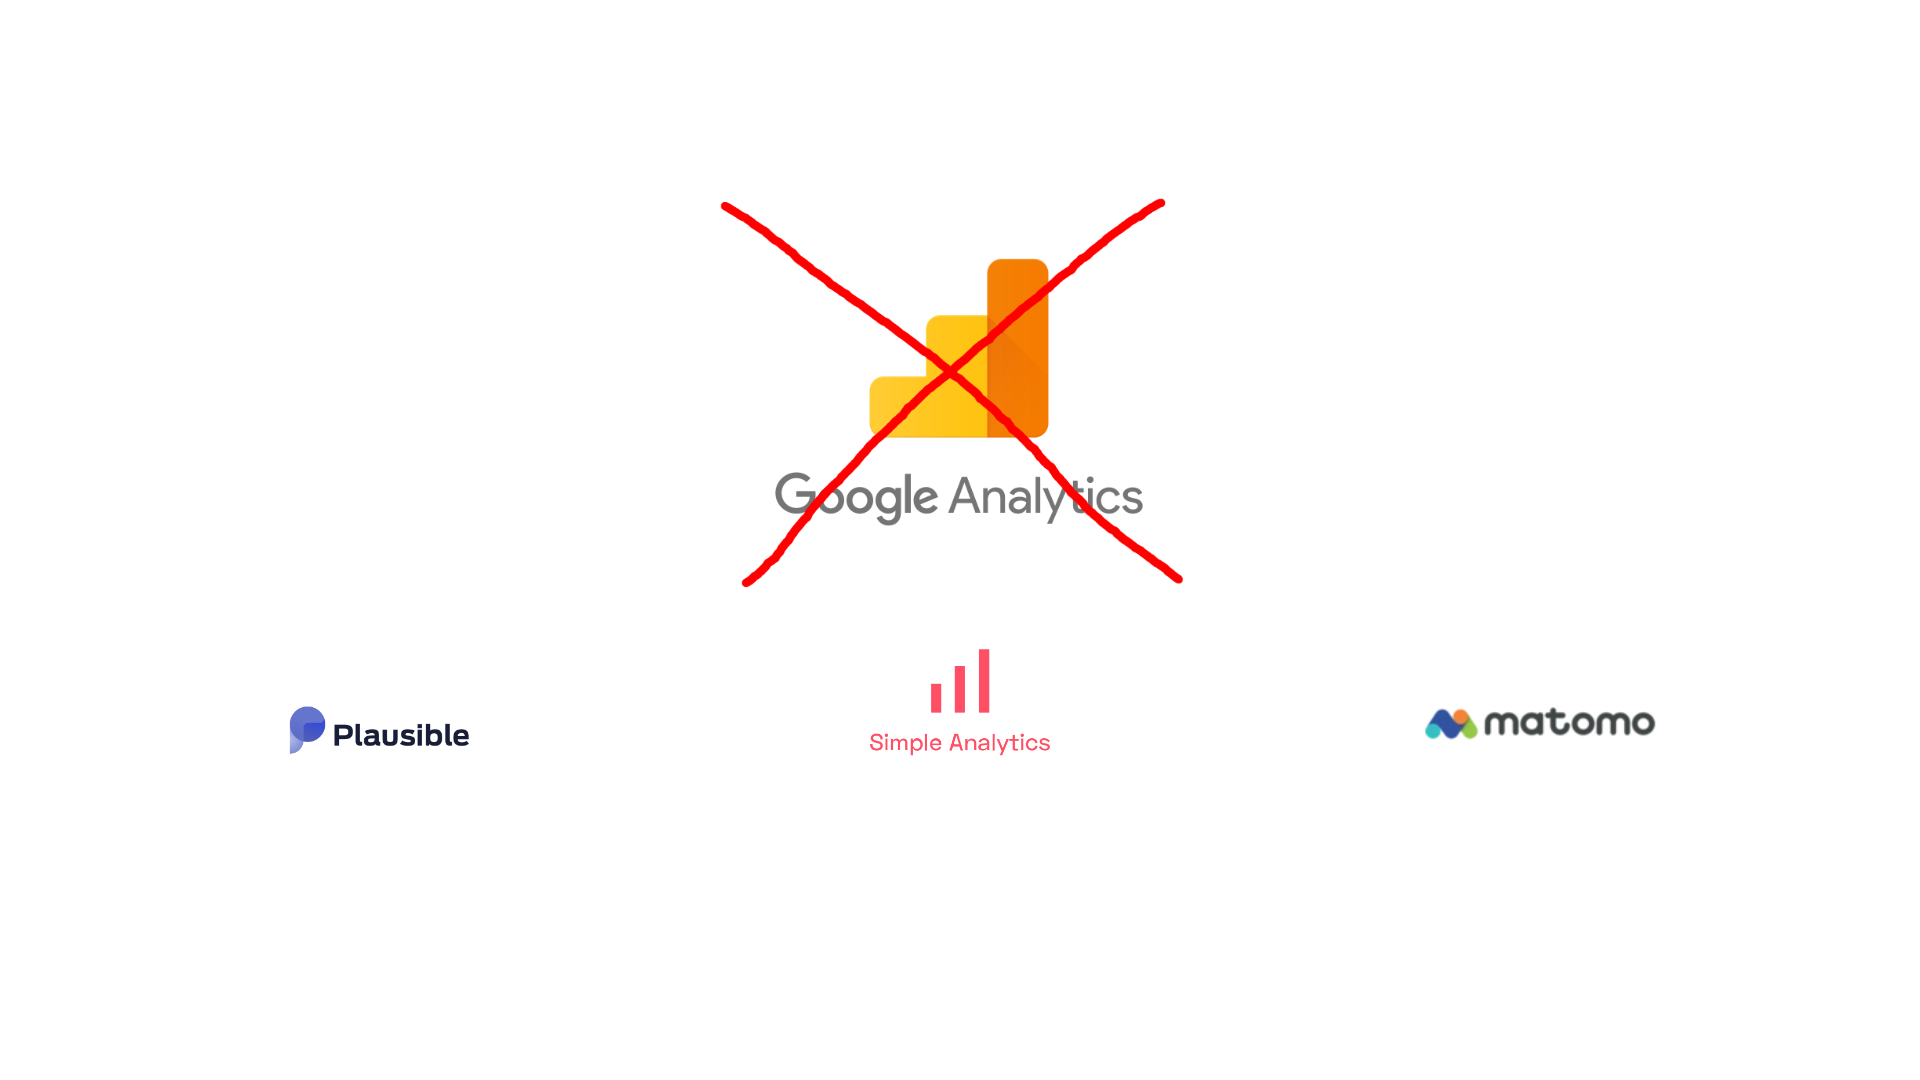
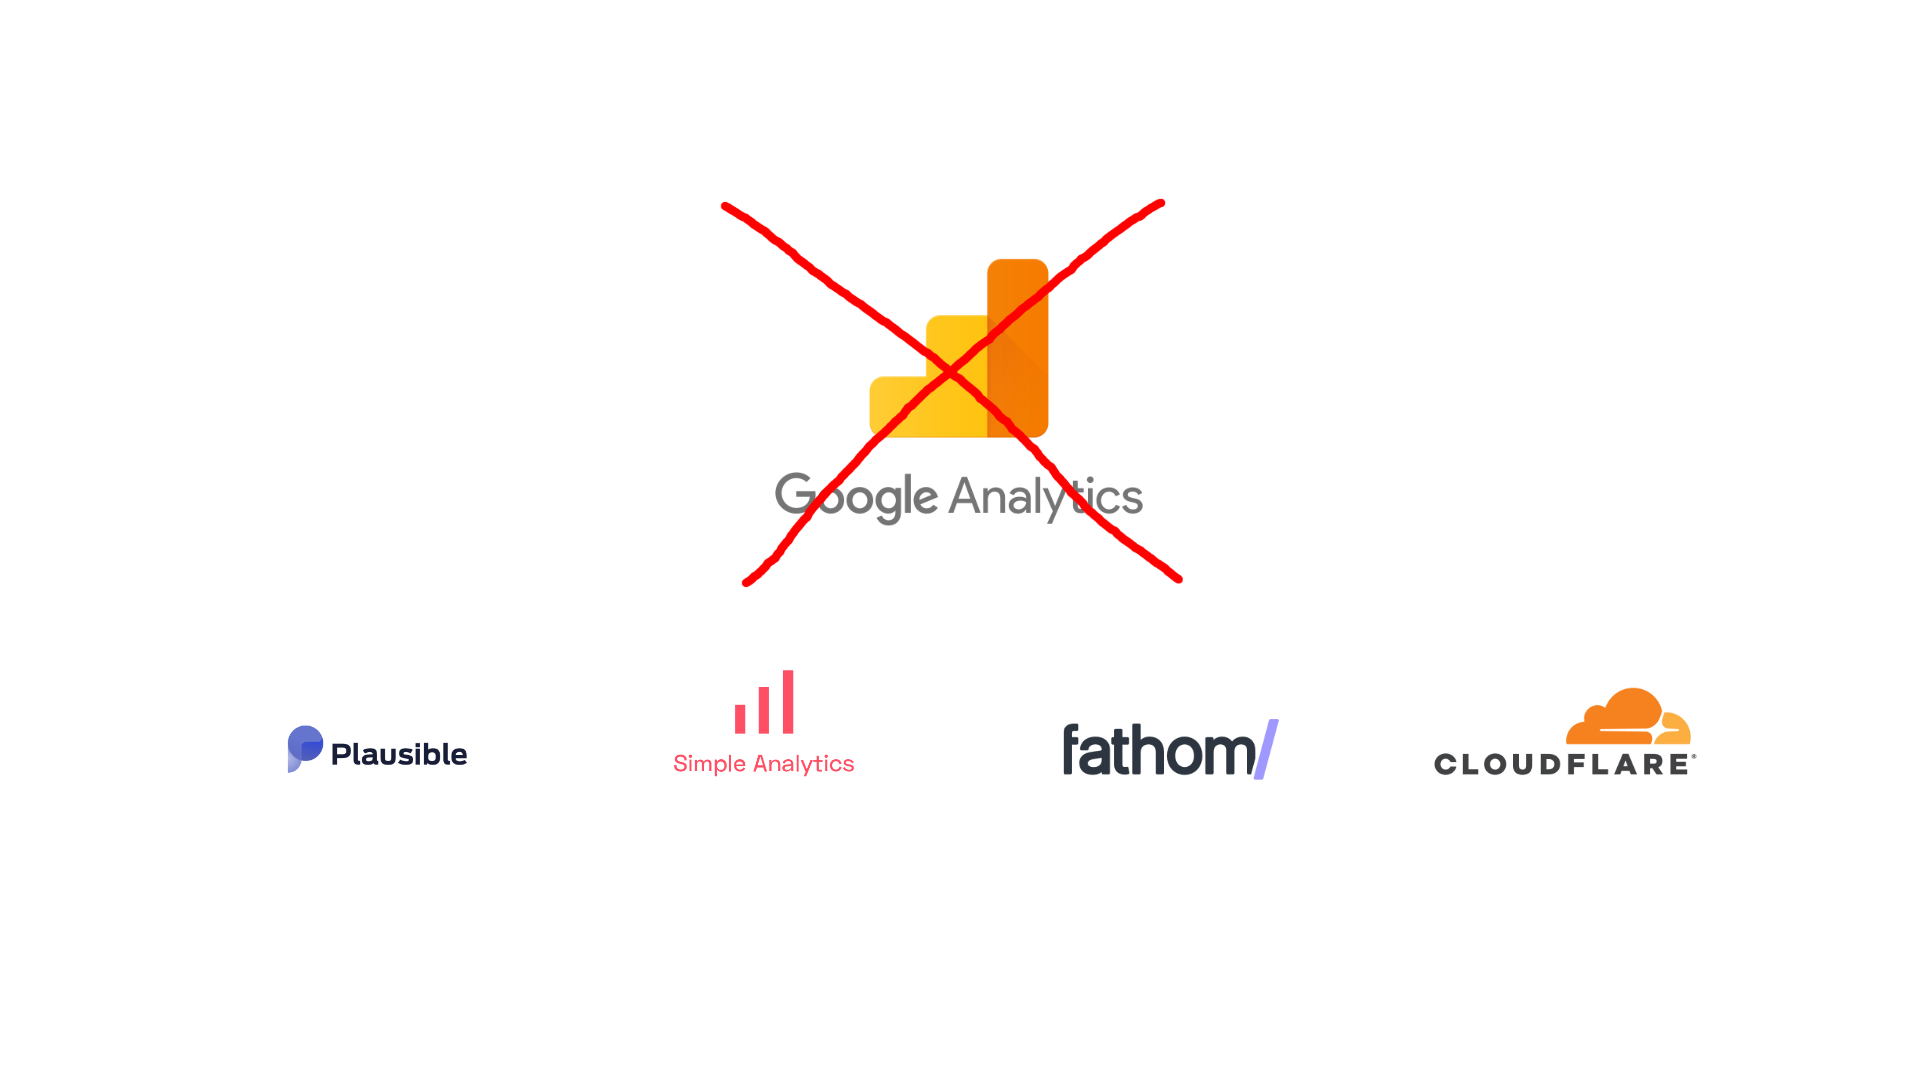
Fix blog post

diff --git a/gatsby-node.js b/gatsby-node.js
@@ -59,6 +59,7 @@ exports.createPages = async ({ actions, graphql }) => {
 	const posts = result.data.allMarkdownRemark.edges;
 
 	posts.forEach( ({ node }) => {
+		console.log(node);
 		if(!node.fields.slug) return;
 
 		createPage({
@@ -121,48 +122,6 @@ exports.createSchemaCustomization = ({ actions }) => {
 		}
 	`;
 };
-/*
-const localesContent = {
-	en: fs.readFileSync(path.join(__dirname, "src/locales/en/index.json"), "utf8"),
-	sv: fs.readFileSync(path.join(__dirname, "src/locales/sv/index.json"), "utf8")
-};
-const availableLocales = [
-	{ value: "en", text: "English" },
-	{ value: "sv", text: "Svenska" }
-];
-const defaultLocales = { value: "sv", text: "Svenska" }; */
-
-/* exports.onCreatePage = async props => {
-	const{
-		page,
-		actions: { createPage, deletePage, createRedirect }
-	} = props;
-
-	if(/^\/dev-404-page\/?$/.test(page.path))
-		return;
-
-	deletePage(page);
-
-	availableLocales.map(({ value }) => {
-		let newPath = `/${value}${page.path}`;
-		if(defaultLocales.value === value)
-			newPath = page.path;
-
-		const localePage = {
-			...page,
-			originalPath: page.path,
-			path: newPath,
-			context: {
-				availableLocales,
-				locale: value,
-				routed: true,
-				data: localesContent[value],
-				originalPath: page.path
-			}
-		};
-		createPage(localePage);
-	});
-}; */
 
 function createSlug({ node }){
 	const filePath = node.fileAbsolutePath;

diff --git a/content/drafts/du-behover-antagligen-inte-google-analytics.md b/content/drafts/du-behover-antagligen-inte-google-analytics.md
@@ -1,0 +1,88 @@
+---
+type: post
+published: true
+title: Du behöver antagligen inte Google Analytics
+date: 2021-01-12T15:18:13.078Z
+updated: 2021-01-12T15:18:14.842Z
+image: /google-analytics-cover.jpg
+description: Google Analytics har länge varit en slags standardtjänst för att
+  föra statistik på webbplatser. Det är dock ofta mer än vad många behöver och
+  försämrar användarupplevelsen. Jag berättar varför och ger dig några
+  alternativ.
+---
+
+## Problemet
+
+Är du inne på mycket webbplatser? Har du märkt hur alla frågar efter att använda Cookies? Har detta irriterat dig? Det irriterar mig iallafall.
+
+Genom att använda Google Analytics (GA) måste man även fråga användarna om tillåtelse att använda Cookies. Anledningen är att GA använder spårningskakor för hålla reda på användare över olika webbplatser. Detta låter GA presentera mer korrekt och specialiserad information om användarna.
+
+Detta tillåter många företag att få djupa insikter om sina användare och kan därmed utforma sin webbplats efter användarnas faktiska användning. Jättebra!
+
+MEN! Detta är helt onödigt för de flesta webbplatser. De flesta får inte ens tillräckligt många besökare för att dessa insikter ska ha någon betydelse. Allt man egentligen vill veta är hur många som besöker webbplatsen, och det behöver man inte GA för.
+
+Google använder även datan från din webbplats för egna syften. Det betyder att det inte är du som äger informationen och vet inte vem som kan se den eller vad de gör med den.
+
+GA är gratis att använda eftersom de tjänar pengar på dig och dina besökare.
+
+## En del av problemet
+
+Jag var faktiskt, fram till förra månaden, en del av problemet. Jag använde GA för att föra statistik, men brydde mig bara om antalet besökare och hur det ändrades över tid. Jag insåg dock detta och i samband med en renovering av min webbplats bytte jag ut GA mot ett integritets-inriktat statistik-verktyg.
+
+## Andra alternativ
+
+Vad ska man använda istället för Google Analytics? Eftersom hela poängen med att inte använda GA är att bli av med den irriterande cookie-bannern kommer jag att lista och jämföra några olika integritets-inriktade verktyg för att samla statistik från din webbplats.
+
+### Plausible Analytics
+
+![Plausible Dashboard](/plausible.jpg "Plausible Dashboard")
+
+[Plausible Analytics](https://plausible.io) är ett prenumerations-baserat statistik-verktyg. Till skillnad från GA kostar det att använda Plausible. Tjänsten har dock öppen källkod och man är fri att köra Plausible på sina egna servrar om man inte vill använda deras betaltjänst.
+
+I alla deras planer kan man lägga till obegränsat med webbplatser, så du behöver inte flera prenumerationer. Du får även e-post rapporter, egna domäner och förmågan att skapa konverteringsmål. 
+
+Den billigaste planen på Plausible kostar $6 per månad, eller $4 om man betalar årsvis. Detta gör Plausbible till den billigaste av de prenumerations-tjänster jag listar här.
+
+Planerna är baserade på hur många visningar du får totalt mellan alla dina webbplatser. Den billigaste planen låter dig samla 10 000 visningar per månad innan du måste uppgradera.
+
+### Fathom Analytics
+
+![Fathom dashboard](/fathom.jpg "Fathom dashboard")
+
+[Fathom Analytics](https://usefathom.com/) är precis som Plausible en prenumerations-tjänst. Fathom har, till skillnad från Plausible, inte öppen källkod. Det betyder att du inte har alternativet att köra Fathom på egna servrar.
+
+Precis som Plausible kan du lägga till obegränsat med webbplatser. Fathom har också, likt Plausible, obegränsat med domäner, e-post rapporter och konverteringsmål.
+
+Fathoms billigaste plan kostar $14 per månad och tillåter 100 000 visningar. Det betyder att Fathom är lite dyrare än till och med Plausibles tredje billigaste plan om man betalar årsvis, och då får man 200 000 visningar.
+
+### Simple Analytics
+
+![Simple dashboard](/simple-analytics.jpg "Simple dashboard")
+
+[Simple Analytics](https://simpleanalytics.com/) är också en prenumerations-baserad analys-tjänst. Den är betydligt dyrare än både Plausible och Fathom.
+
+Simple Analytics erbjuder ungefär samma saker som Plausible och Fathom men saknar funktionen att lägga till konverteringsmål. Istället har de en fuktion som låter dig se vilken tweet en användare klickade på när de kom ifrån Twitter.
+
+Simple Analytics har, till skillnad från de andra två, begränsningar på antalet användare. I både Plausible och Fathom kan man dela sin dashboard med andra genom en länk och lösenord, detta är inte möjligt med Simple Analytics.
+
+Som sagt är Simple Analytics även dyrare än andra alternativ. Deras billigaste plan börjar på $19 per månad. Då för man obegränsat med webbplatser och 100 000 visningar. Dock begränsas man till 1 användare.
+
+### Cloudflare Analytics
+
+![Cloudflare dashboard](/cloudflare-analytics.jpg "Cloudflare dashboard")
+
+[Cloudflare Analytics](https://www.cloudflare.com/) är det enda alternativet på den här listan som är gratis. Det saknar dock många funktioner som de andra alternativen har.
+
+Med Cloudflare Analytics kan du inte se användare i realtid, skapa konverteringsmål eller dela din dashboard. Analytics verktyget är dock inte Cloudflares enda produkt. De säljer molntjänster som underlättar för utvecklare och har ett annat analys verktyg som fångar data på nätverksnivå.
+
+Med det sagt så är det faktiskt Cloudflare Analytics jag använder på webbplatsen du befinner dig på just nu. Anledningen är helt enkelt att det är gratis, och jag gillar inte att spendera pengar i onödan.
+
+Jag börjar dock tröttna på det (jag har använt det i mindre än 1 månad). Vissa saker som vilken sida en användare tittat på fungerar inte, det är alltid blankt, och deras UI ser bara tråkig och komplicerad ut. 
+
+## Avslutningsvis
+
+Efter att ha skrivit den här jämförelsen funderar jag faktiskt på att byta till Plausible. Fathom och Plausible känns nästan identiska, med skillnaden att Plausible är billigare. 
+
+Simple är dyrare och saknar vissa funktioner som de kompenserar med andra onödiga funktioner (att visa tweets känns tyvärr inte värt de extra kronorna). Cloudflare fungerar knappt, men är gratis.
+
+Det var allt för den här gången! Tack!

diff --git a/content/blog/statistik-utan-google.md b/content/blog/statistik-utan-google.md
@@ -1,0 +1,87 @@
+---
+type: post
+published: true
+title: Statistik utan Google
+date: 2021-01-12T19:08:06.266Z
+updated: 2021-01-12T19:08:06.318Z
+image: /google-analytics-cover.jpg
+description: Google Analytics har länge varit en slags standardtjänst för att
+  föra statistik på webbplatser. Det är dock ofta mer än vad många behöver och
+  försämrar användarupplevelsen. Jag berättar varför och ger dig några andra
+  alternativ.
+---
+## Problemet
+
+Är du inne på mycket webbplatser? Har du märkt hur alla frågar efter att använda Cookies? Har detta irriterat dig? Det irriterar mig iallafall.
+
+Genom att använda Google Analytics (GA) måste man även fråga användarna om tillåtelse att använda Cookies. Anledningen är att GA använder spårningskakor för hålla reda på användare över olika webbplatser. Detta låter GA presentera mer korrekt och specialiserad information om användarna.
+
+Detta tillåter många företag att få djupa insikter om sina användare och kan därmed utforma sin webbplats efter användarnas faktiska användning. Jättebra!
+
+MEN! Detta är helt onödigt för de flesta webbplatser. De flesta får inte ens tillräckligt många besökare för att dessa insikter ska ha någon betydelse. Allt man egentligen vill veta är hur många som besöker webbplatsen, och det behöver man inte GA för.
+
+Google använder även datan från din webbplats för egna syften. Det betyder att det inte är du som äger informationen och vet inte vem som kan se den eller vad de gör med den.
+
+GA är gratis att använda eftersom de tjänar pengar på dig och dina besökare.
+
+## En del av problemet
+
+Jag var faktiskt, fram till förra månaden, en del av problemet. Jag använde GA för att föra statistik, men brydde mig bara om antalet besökare och hur det ändrades över tid. Jag insåg dock detta och i samband med en renovering av min webbplats bytte jag ut GA mot ett integritets-inriktat statistik-verktyg.
+
+## Andra alternativ
+
+Vad ska man använda istället för Google Analytics? Eftersom hela poängen med att inte använda GA är att bli av med den irriterande cookie-bannern kommer jag att lista och jämföra några olika integritets-inriktade verktyg för att samla statistik från din webbplats.
+
+### Plausible Analytics
+
+![Plausible Dashboard](/plausible.jpg "Plausible Dashboard")
+
+[Plausible Analytics](https://plausible.io) är ett prenumerations-baserat statistik-verktyg. Till skillnad från GA kostar det att använda Plausible. Tjänsten har dock öppen källkod och man är fri att köra Plausible på sina egna servrar om man inte vill använda deras betaltjänst.
+
+I alla deras planer kan man lägga till obegränsat med webbplatser, så du behöver inte flera prenumerationer. Du får även e-post rapporter, egna domäner och förmågan att skapa konverteringsmål. 
+
+Den billigaste planen på Plausible kostar $6 per månad, eller $4 om man betalar årsvis. Detta gör Plausbible till den billigaste av de prenumerations-tjänster jag listar här.
+
+Planerna är baserade på hur många visningar du får totalt mellan alla dina webbplatser. Den billigaste planen låter dig samla 10 000 visningar per månad innan du måste uppgradera.
+
+### Fathom Analytics
+
+![Fathom dashboard](/fathom.jpg "Fathom dashboard")
+
+[Fathom Analytics](https://usefathom.com/) är precis som Plausible en prenumerations-tjänst. Fathom har, till skillnad från Plausible, inte öppen källkod. Det betyder att du inte har alternativet att köra Fathom på egna servrar.
+
+Precis som Plausible kan du lägga till obegränsat med webbplatser. Fathom har också, likt Plausible, obegränsat med domäner, e-post rapporter och konverteringsmål.
+
+Fathoms billigaste plan kostar $14 per månad och tillåter 100 000 visningar. Det betyder att Fathom är lite dyrare än till och med Plausibles tredje billigaste plan om man betalar årsvis, och då får man 200 000 visningar.
+
+### Simple Analytics
+
+![Simple dashboard](/simple-analytics.jpg "Simple dashboard")
+
+[Simple Analytics](https://simpleanalytics.com/) är också en prenumerations-baserad analys-tjänst. Den är betydligt dyrare än både Plausible och Fathom.
+
+Simple Analytics erbjuder ungefär samma saker som Plausible och Fathom men saknar funktionen att lägga till konverteringsmål. Istället har de en fuktion som låter dig se vilken tweet en användare klickade på när de kom ifrån Twitter.
+
+Simple Analytics har, till skillnad från de andra två, begränsningar på antalet användare. I både Plausible och Fathom kan man dela sin dashboard med andra genom en länk och lösenord, detta är inte möjligt med Simple Analytics.
+
+Som sagt är Simple Analytics även dyrare än andra alternativ. Deras billigaste plan börjar på $19 per månad. Då för man obegränsat med webbplatser och 100 000 visningar. Dock begränsas man till 1 användare.
+
+### Cloudflare Analytics
+
+![Cloudflare dashboard](/cloudflare-analytics.jpg "Cloudflare dashboard")
+
+[Cloudflare Analytics](https://www.cloudflare.com/) är det enda alternativet på den här listan som är gratis. Det saknar dock många funktioner som de andra alternativen har.
+
+Med Cloudflare Analytics kan du inte se användare i realtid, skapa konverteringsmål eller dela din dashboard. Analytics verktyget är dock inte Cloudflares enda produkt. De säljer molntjänster som underlättar för utvecklare och har ett annat analys verktyg som fångar data på nätverksnivå.
+
+Med det sagt så är det faktiskt Cloudflare Analytics jag använder på webbplatsen du befinner dig på just nu. Anledningen är helt enkelt att det är gratis, och jag gillar inte att spendera pengar i onödan.
+
+Jag börjar dock tröttna på det (jag har använt det i mindre än 1 månad). Vissa saker som vilken sida en användare tittat på fungerar inte, det är alltid blankt, och deras UI ser bara tråkig och komplicerad ut. 
+
+## Avslutningsvis
+
+Efter att ha skrivit den här jämförelsen funderar jag faktiskt på att byta till Plausible. Fathom och Plausible känns nästan identiska, med skillnaden att Plausible är billigare. 
+
+Simple är dyrare och saknar vissa funktioner som de kompenserar med andra onödiga funktioner (att visa tweets känns tyvärr inte värt de extra kronorna). Cloudflare fungerar knappt, men är gratis.
+
+Det var allt för den här gången! Tack!
